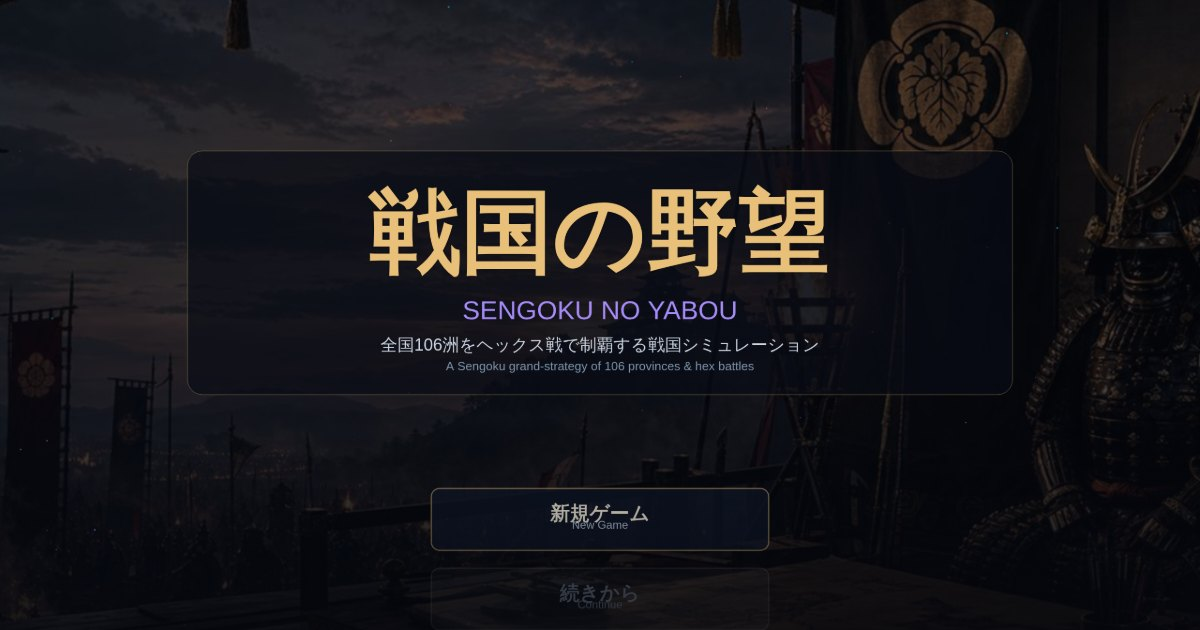
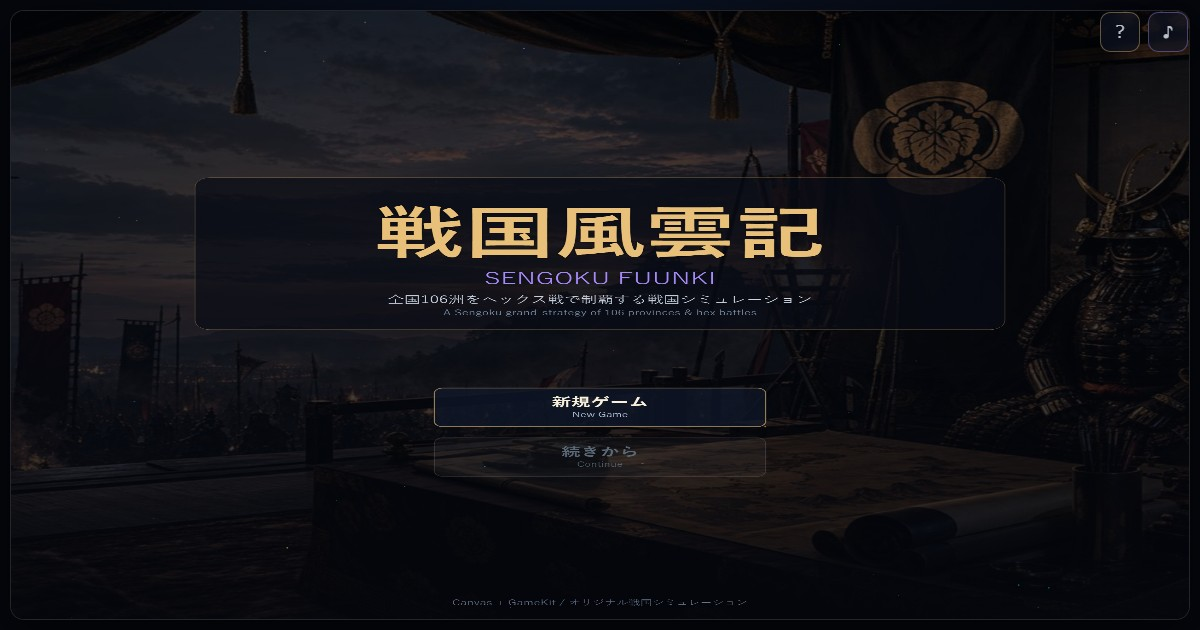
戦国風雲記: タイトルを「戦国の野望」から改名
法務チェックで信長の野望との商標類似性を指摘され、ゲーム名を戦国風雲記
/Sengoku Fuunkiへ改名（メタタグ・OGP/Twitterカード・タイトル画面・
構造化データ・OG共有画像を含めて統一）。

diff --git a/sengoku.html b/sengoku.html
@@ -4,20 +4,20 @@
 <meta charset="UTF-8">
 <meta name="viewport" content="width=device-width, initial-scale=1.0">
 <meta http-equiv="Content-Security-Policy" content="default-src 'self'; img-src 'self' data:; style-src 'self' 'unsafe-inline'; script-src 'self' 'unsafe-inline'; connect-src 'self';">
-<meta name="description" content="戦国の野望 — 信長の野望風の戦国歴史シミュレーション。全国64洲をヘックス戦で攻め取る。1560/1568/1574の3シナリオ。Canvas + GameKit製。">
-<title>戦国の野望 | Sengoku no Yabou — 戦国シミュレーション</title>
+<meta name="description" content="戦国風雲記 — 戦国時代の全国統一を目指す歴史シミュレーション。全国64洲をヘックス戦で攻め取る。1560/1568/1574の3シナリオ。Canvas + GameKit製。">
+<title>戦国風雲記 | Sengoku Fuunki — 戦国シミュレーション</title>
 <link rel="canonical" href="https://hifukasawa77-lgtm.github.io/main/sengoku.html">
 <meta property="og:type" content="website">
-<meta property="og:title" content="戦国の野望 | Sengoku no Yabou">
-<meta property="og:description" content="信長の野望風の戦国歴史シミュレーション。全国64洲をヘックス戦で攻め取る。1560/1568/1574の3シナリオ。Canvas + GameKit製。">
+<meta property="og:title" content="戦国風雲記 | Sengoku Fuunki">
+<meta property="og:description" content="戦国時代の全国統一を目指す歴史シミュレーション。全国64洲をヘックス戦で攻め取る。1560/1568/1574の3シナリオ。Canvas + GameKit製。">
 <meta property="og:url" content="https://hifukasawa77-lgtm.github.io/main/sengoku.html">
 <meta property="og:image" content="https://hifukasawa77-lgtm.github.io/main/assets/og/sengoku.jpg">
 <meta property="og:image:width" content="1200">
 <meta property="og:image:height" content="630">
 <meta property="og:site_name" content="hide_0001 Portfolio">
 <meta name="twitter:card" content="summary_large_image">
-<meta name="twitter:title" content="戦国の野望 | Sengoku no Yabou">
-<meta name="twitter:description" content="信長の野望風の戦国歴史シミュレーション。全国64洲をヘックス戦で攻め取る。Canvas + GameKit製。">
+<meta name="twitter:title" content="戦国風雲記 | Sengoku Fuunki">
+<meta name="twitter:description" content="戦国時代の全国統一を目指す歴史シミュレーション。全国64洲をヘックス戦で攻め取る。Canvas + GameKit製。">
 <meta name="twitter:image" content="https://hifukasawa77-lgtm.github.io/main/assets/og/sengoku.jpg">
 <style>
   :root { --bg:#05070d; --cyan:#22d3ee; --purple:#a78bfa; --text:#e2e8f0; }
@@ -379,7 +379,7 @@
 <div id="fsGate" class="fs-gate" role="button" tabindex="0" aria-label="タップして全画面で開始 / Tap to start fullscreen">
   <div class="fs-gate-card">
     <div class="fs-gate-icon">⛶</div>
-    <div class="fs-gate-title">戦国の野望</div>
+    <div class="fs-gate-title">戦国風雲記</div>
     <div class="fs-gate-jp">タップして横向き全画面で開始</div>
     <div class="fs-gate-en">Tap to play in fullscreen landscape</div>
     <div class="fs-gate-rotate">📱 端末を横向きにしてください / Rotate your device</div>
@@ -536,7 +536,7 @@
     </div>
   </div>
 </div>
-<p class="hint"><b>戦国の野望</b> / Sengoku no Yabou &nbsp;|&nbsp; クリックで操作 — Click to play &nbsp;|&nbsp; 全国64洲をヘックス戦で制覇せよ</p>
+<p class="hint"><b>戦国風雲記</b> / Sengoku Fuunki &nbsp;|&nbsp; クリックで操作 — Click to play &nbsp;|&nbsp; 全国64洲をヘックス戦で制覇せよ</p>
 
 <script id="castleMapPointsData" type="application/json">{}</script>
 <script src="gamekit/gamekit.js"></script>
@@ -544,7 +544,7 @@
 'use strict';
 
 /* =====================================================================
- * 戦国の野望 (Sengoku no Yabou) — GameKit製 戦国歴史シミュレーション
+ * 戦国風雲記 (Sengoku Fuunki) — GameKit製 戦国歴史シミュレーション
  * 64洲 / ヘックス戦 / 3シナリオ(1560,1568,1574) / 全国武将
  * ===================================================================== */
 
@@ -5113,8 +5113,8 @@ class BootScene extends GameKit.Scene {
   draw(ctx){
     ctx.fillStyle='#05070d'; ctx.fillRect(0,0,W,H);
     const cx=W/2, cy=H/2;
-    T(ctx,'戦国の野望', cx, cy-240, {size:128, weight:'bold', color:'#e8c07a', align:'center', shadow:true});
-    T(ctx,'SENGOKU NO YABOU', cx, cy-96, {size:42, color:'#a78bfa', align:'center'});
+    T(ctx,'戦国風雲記', cx, cy-240, {size:128, weight:'bold', color:'#e8c07a', align:'center', shadow:true});
+    T(ctx,'SENGOKU FUUNKI', cx, cy-96, {size:42, color:'#a78bfa', align:'center'});
     // ロード中メッセージ（大きく明瞭に）
     T(ctx,'ロード中です。しばらくお待ちください', cx, cy+36, {size:56, weight:'bold', color:'#f1e6cf', align:'center', shadow:true});
     T(ctx,'Loading… Please wait a moment', cx, cy+112, {size:32, color:'#94a3b8', align:'center'});
@@ -5168,8 +5168,8 @@ class TitleScene extends GameKit.Scene {
     this.particles.draw(ctx);
     const cx=W/2, cy=H/2;
     GameKit.UI.glassPanel(ctx, cx-880, cy-470, 1760, 520, {radius:32, fill:'rgba(8,12,22,0.70)', stroke:'rgba(232,192,122,0.48)'});
-    T(ctx,'戦国の野望', cx, cy-382, {size:196, weight:'bold', color:'#e8c07a', align:'center', shadow:true});
-    T(ctx,'SENGOKU NO YABOU', cx, cy-154, {size:56, color:'#a78bfa', align:'center'});
+    T(ctx,'戦国風雲記', cx, cy-382, {size:196, weight:'bold', color:'#e8c07a', align:'center', shadow:true});
+    T(ctx,'SENGOKU FUUNKI', cx, cy-154, {size:56, color:'#a78bfa', align:'center'});
     T(ctx,'全国'+DATA.provinces.length+'洲をヘックス戦で制覇する戦国シミュレーション', cx, cy-72, {size:36, color:'#cbd5e1', align:'center'});
     T(ctx,'A Sengoku grand-strategy of '+DATA.provinces.length+' provinces & hex battles', cx, cy-22, {size:26, color:'#7d93ab', align:'center'});
     for (const b of this.buttons) drawButton(ctx, b, this.t);

diff --git a/index.html b/index.html
@@ -602,7 +602,7 @@
           "position": 32,
           "item": {
             "@type": "SoftwareApplication",
-            "name": "戦国の野望",
+            "name": "戦国風雲記",
             "applicationCategory": "GameApplication",
             "operatingSystem": "Web Browser",
             "url": "https://hifukasawa77-lgtm.github.io/main/sengoku.html",
@@ -1086,7 +1086,7 @@
             <div class="tool-icon orange">⚔</div>
             <div class="tool-body">
               <span class="claude-badge" data-i18n="claude-badge">🤖 Claude製</span>
-              <h3>戦国の野望</h3>
+              <h3>戦国風雲記</h3>
               <p data-i18n="tool-sengoku-desc">全国64洲をヘックス戦で攻め取る戦国歴史シミュレーション。1560/1568/1574の3シナリオ、大名と全国武将、内政・徴兵・出陣、手動ヘックス戦＆自動解決。GameKit製・Canvasのみ・データは端末内。</p>
               <div class="tool-tags">
                 <span class="ttag">Vanilla JS</span>
